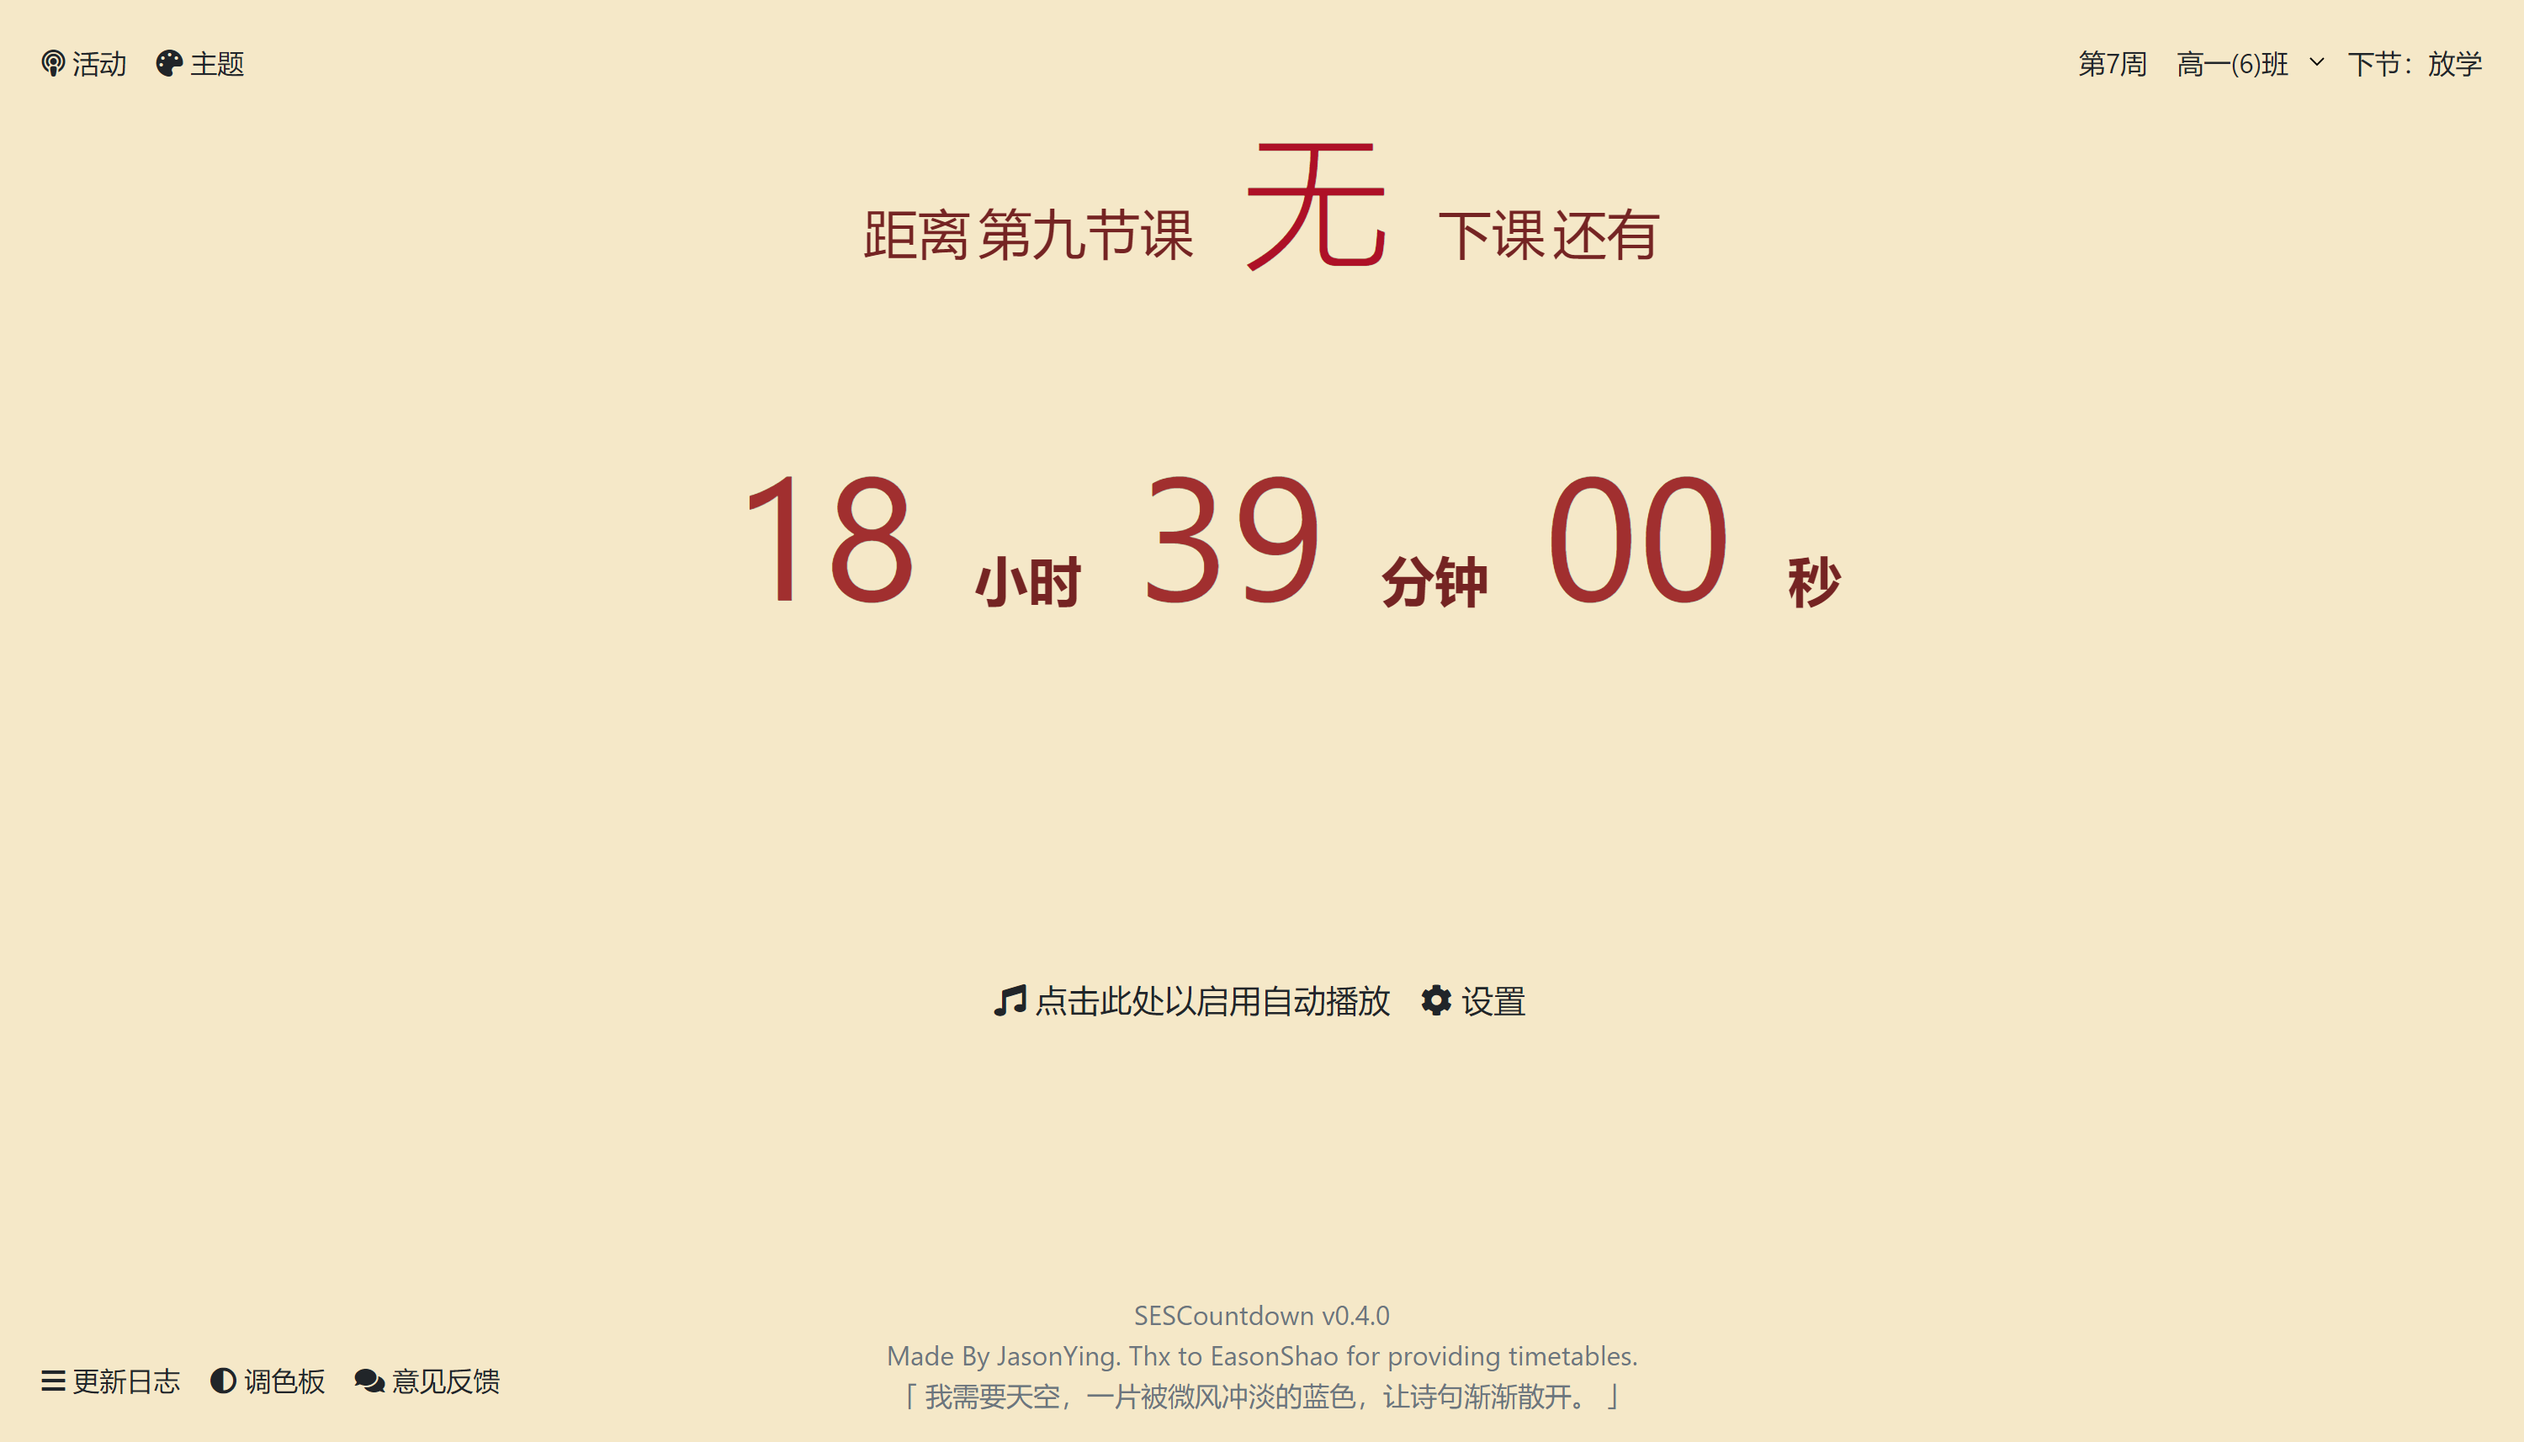
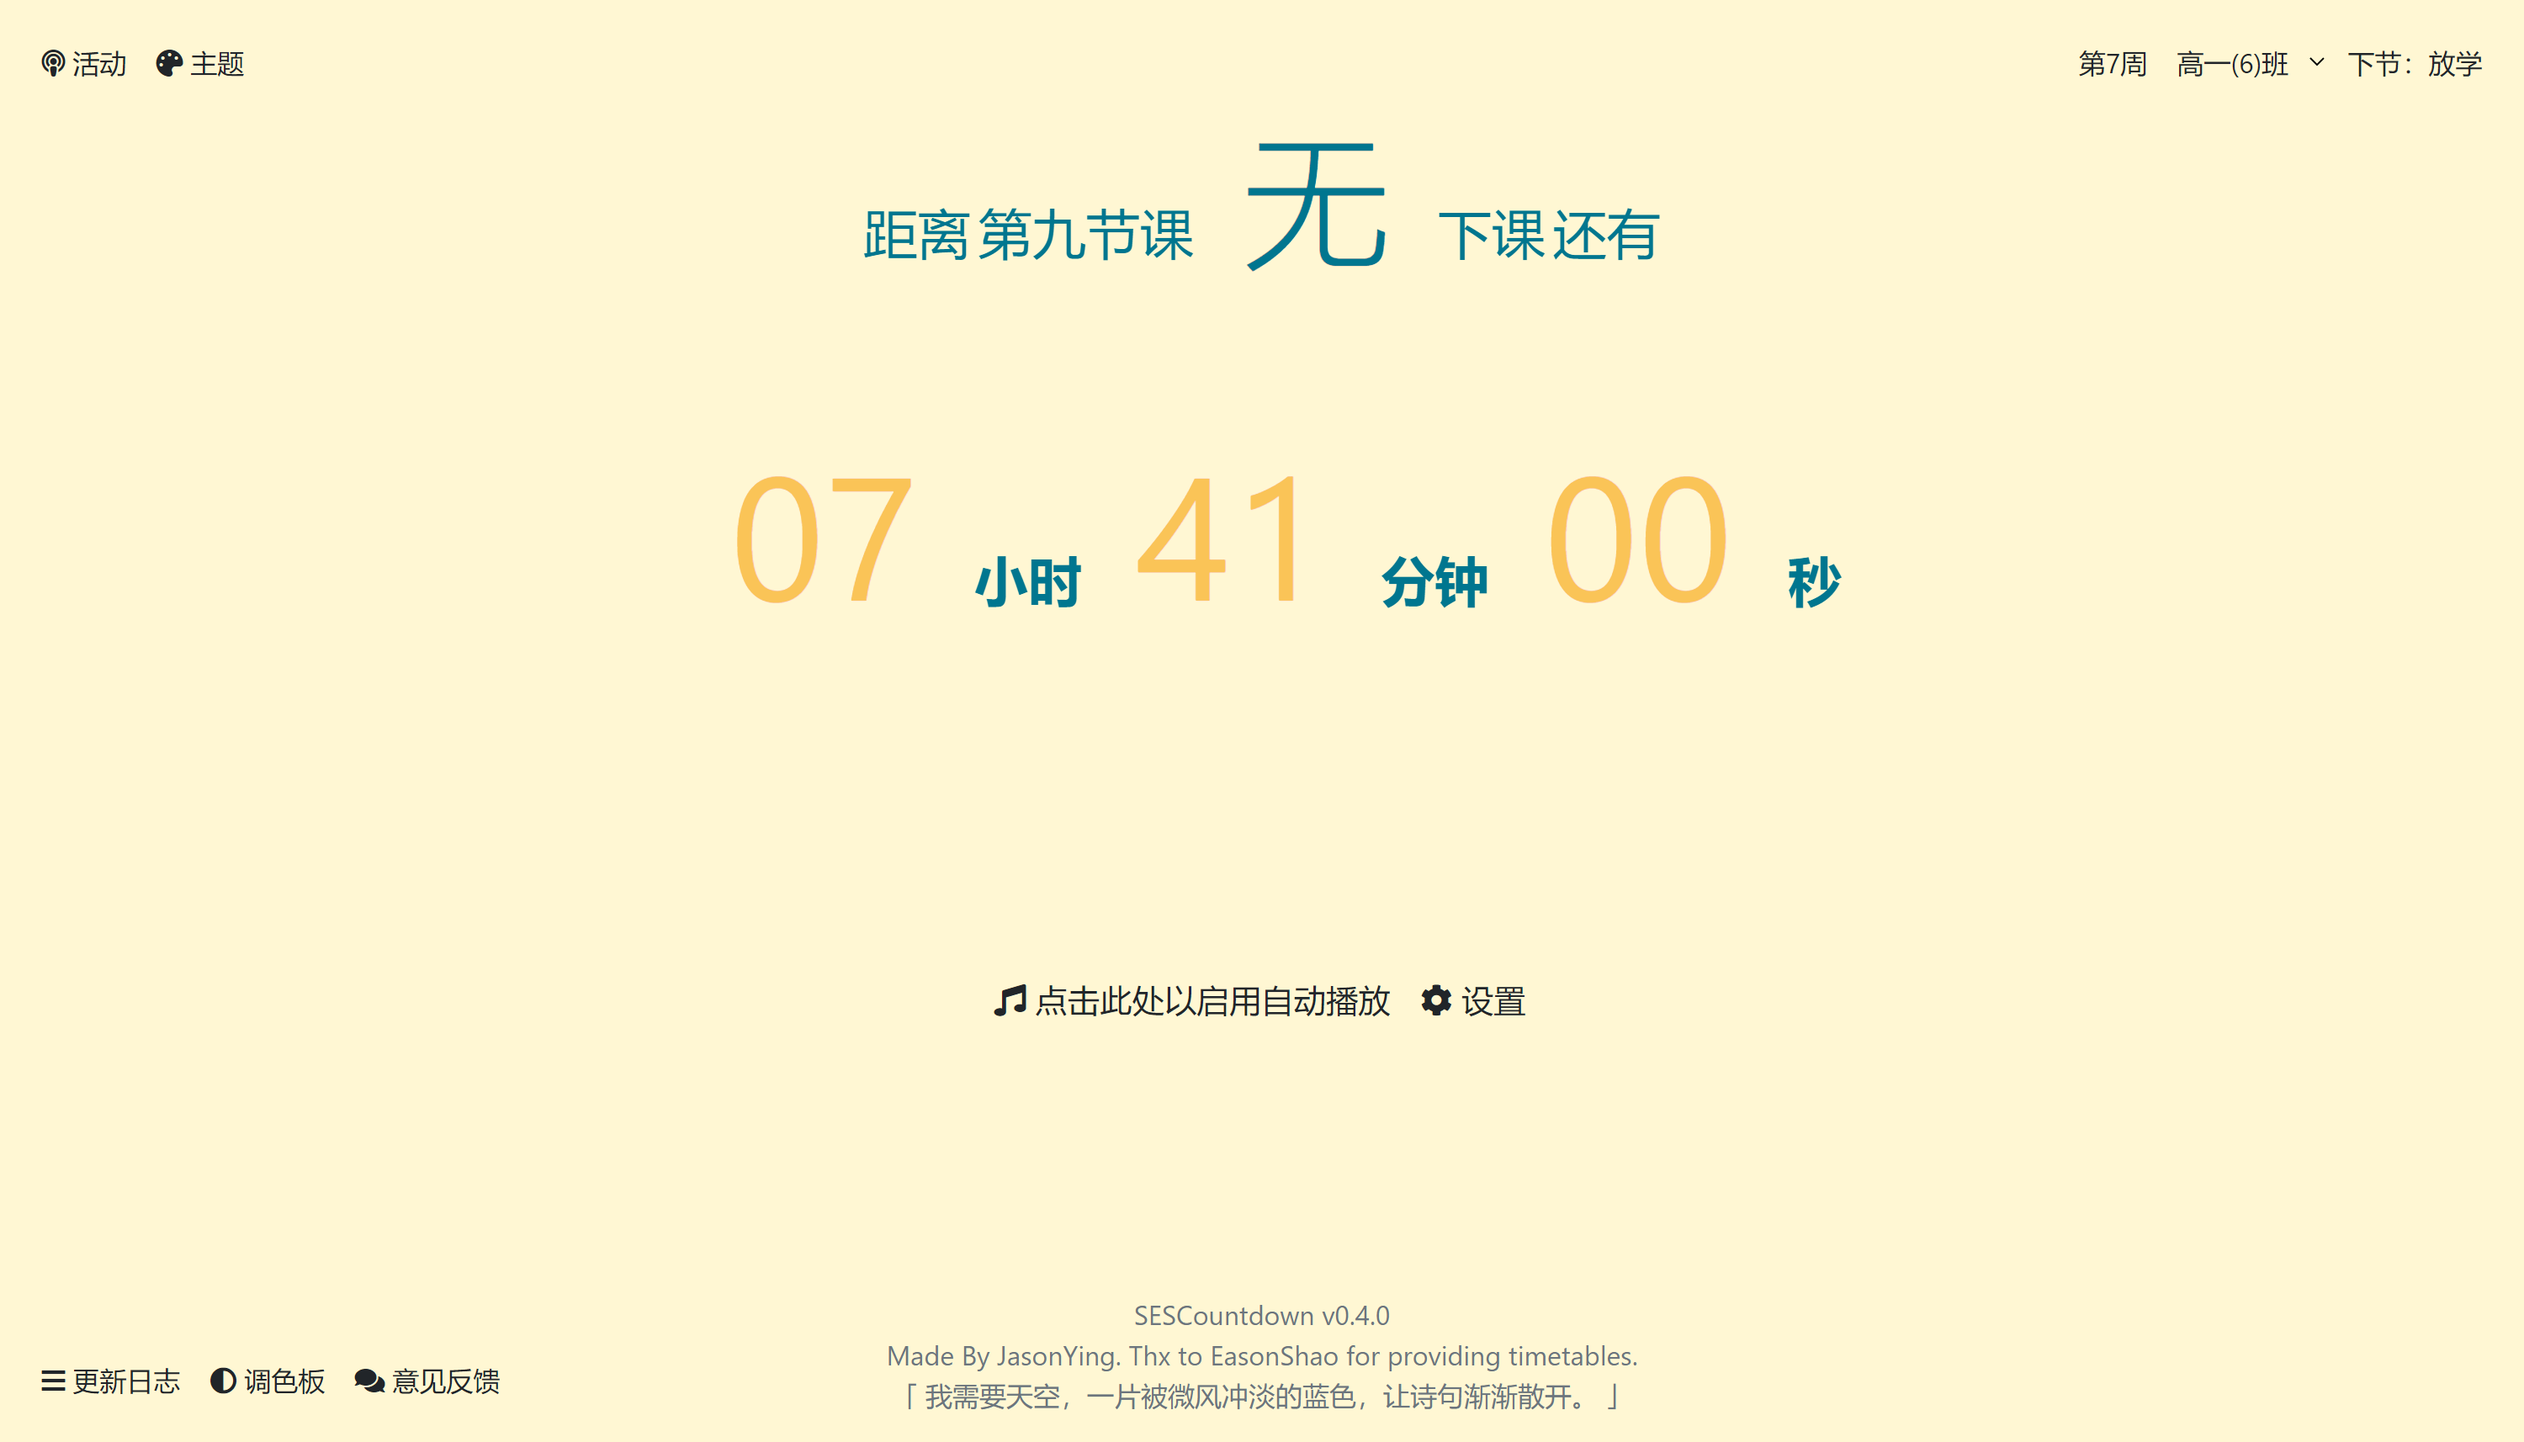
change theme

diff --git a/assets/script/theme.js b/assets/script/theme.js
@@ -6,11 +6,11 @@ let themeModelLoc = "<div id=\"theme-ID\" class=\"theme-tab text-center\">" +
 	"<input type=\"button\" class=\"theme-del\" value=\"删除\"><br>" +
 	"<label class=\"theme-name\">THEMENAME</label>" +
 	"</div>";
-let themeGlbBg = ["white", "white", "#FFF7D3", "#F5E8C8", "#F5F1DA", "#E0D5F2", "#FEEEED", "#6C757D", "#7F9BA8"];
-let themeGlbSub = ["red", "skyblue", "#00768F", "#AE1027", "#808C6C", "#0E97B6", "#EF5B9C", "#6C757D", "#D0D3DC"];
-let themeGlbCd = ["red", "skyblue", "#FAC457", "#A12F2F", "#F4B46A", "#0E97B6", "#EF5B9C", "#6C757D", "#C8B493"];
-let themeGlbTxt = ["black", "black", "#00768F", "#752423", "#9A9C94", "black", "#F7ACBC", "#6C757D", "#383C4A"];
-let themeGlbName = ["经典", "经典2", "游乐场(投稿)", "JasonYing都觉得好(投稿)", "春天来啦~(投稿)", "奶思(投稿)", "樱花粉(投稿)", "你看个屁(投稿)", "海盐夏日(投稿)"];
+let themeGlbBg = ["white", "white", "black", "#FFF7D3", "#F5E8C8", "#F5F1DA", "#E0D5F2", "#FEEEED", "#6C757D", "#7F9BA8"];
+let themeGlbSub = ["red", "skyblue", "black", "#00768F", "#AE1027", "#808C6C", "#0E97B6", "#EF5B9C", "#6C757D", "#D0D3DC"];
+let themeGlbCd = ["red", "skyblue", "black", "#FAC457", "#A12F2F", "#F4B46A", "#0E97B6", "#EF5B9C", "#6C757D", "#C8B493"];
+let themeGlbTxt = ["black", "black", "black", "#00768F", "#752423", "#9A9C94", "black", "#F7ACBC", "#6C757D", "#383C4A"];
+let themeGlbName = ["[官方]经典", "[官方]经典2", "[官方]护眼配色", "[投稿]游乐场", "[投稿]我都觉得好", "[投稿]春天来啦~", "[投稿]奶思", "[投稿]樱花粉", "[投稿]看个毛线", "[投稿]海盐夏日"];
 let themeLocBg = new Array(), themeLocSub = new Array(), themeLocCd = new Array(), themeLocTxt = new Array(), themeLocName = new Array();
 
 if (localStorage.getItem("theme_id") === null) localStorage.setItem("theme_id", "0");
@@ -33,6 +33,7 @@ chooseTheme(themeChosen);
 function getThemeLoc() {
 	if (localStorage.getItem("theme") === null) localStorage.setItem("theme", "");
 	let themeLoc = localStorage.getItem("theme").split(";");
+	themeLocName = [], themeLocBg = [], themeLocSub = [], themeLocCd = [], themeLocTxt = [];
 	for (let i = 0; i < themeLoc.length - 1; i++) {
 		themeLocName.push(themeLoc[i].split(",")[0]);
 		themeLocBg.push(themeLoc[i].split(",")[1]);
@@ -45,6 +46,8 @@ function addThemeLoc(name, bg, sub, cd, txt) {
 	localStorage.setItem("theme", localStorage.getItem("theme") + name + "," + bg + "," + sub + "," + cd + "," + txt + ";");
 }
 function delThemeLoc(n) {
+	let conf = confirm("确认删除该主题？");
+	if (!conf) return;
 	let themeLoc = localStorage.getItem("theme").split(";");
 	themeLoc.splice(n, 1);
 	localStorage.setItem("theme", themeLoc.join(";"));
@@ -69,7 +72,7 @@ for (let i = 0; i < themeGlbBg.length; i++) {
 for (let i = themeGlbBg.length; i < themeGlbBg.length + themeLocBg.length; i++) {
 	let thml = themeModelLoc;
 	thml = thml.replace(/ID/g, i.toString());
-	thml = thml.replace(/THEMENAME/g, themeLocName[i - themeGlbBg.length]);
+	thml = thml.replace(/THEMENAME/g, "[本地]" + themeLocName[i - themeGlbBg.length]);
 	document.getElementById("cd-tab5").innerHTML += thml;
 }
 for (let i = 0; i < 1000; i++) {

diff --git a/index.html b/index.html
@@ -12,6 +12,11 @@
 	<link href="./assets/layout/common.min.css" rel="stylesheet">
 	<link href="./assets/layout/all.min.css" rel="stylesheet">
 	<style>
+		#cd-tab5::-webkit-scrollbar {
+			width: 0;
+		}
+	</style>
+	<style>
 		.modal-side {
 			z-index: 1100;
 			position: fixed;
@@ -317,7 +322,7 @@
 		<label>科目 Subject </label><input id="csub" type="text" style="float: right"><br>
 		<label>时间 Countdown </label><input id="ccd" type="text" style="float: right"><br>
 		<label>文字 Text </label><input id="ctxt" type="text" style="float: right"><br>
-		<input type="button" class="mt-1" style="width: 100%" value="确认" onclick=setColorFromInput()>
+		<input type="button" class="mt-1" style="width: 100%" value="预览" onclick=setColorFromInput()>
 		<input type="button" class="mt-1" style="width: 100%" value="添加到主题" onclick=addThemeFromColor()>
 		<hr>
 		<label>第3步. 如果您调出了满意的颜色并愿意分享，请填写以下匿名征集问卷。您的配色方案有几率被设为备选方案展示在网页上。</label>
@@ -514,7 +519,7 @@
 				case 0:
 					$.get("https://api.help.bj.cn/apis/weather/?id=101020600", function (data) {
 						let doIn = false;
-						if (parseInt(data.temp) > 32-33) {
+						if (parseInt(data.temp) > 32 - 33) {
 							eventPrompt("今天气温" + data.temp + "摄氏度，太热了，良心学校决定进行室内操！", 300000);
 							doIn = true;
 						} else if (parseInt(data.temp) < 10) {
